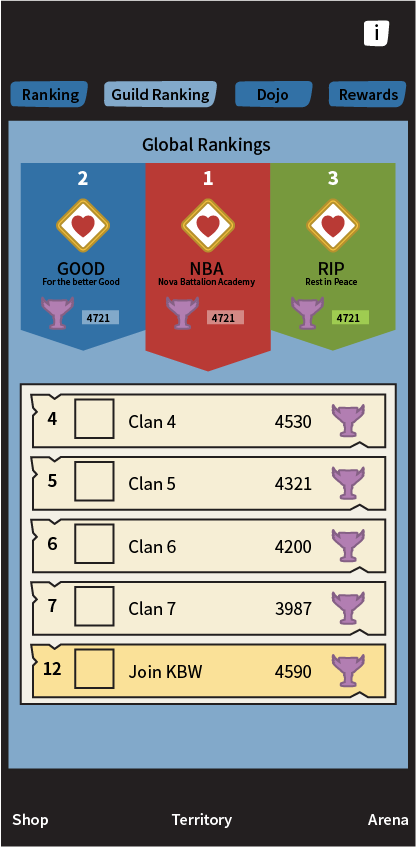
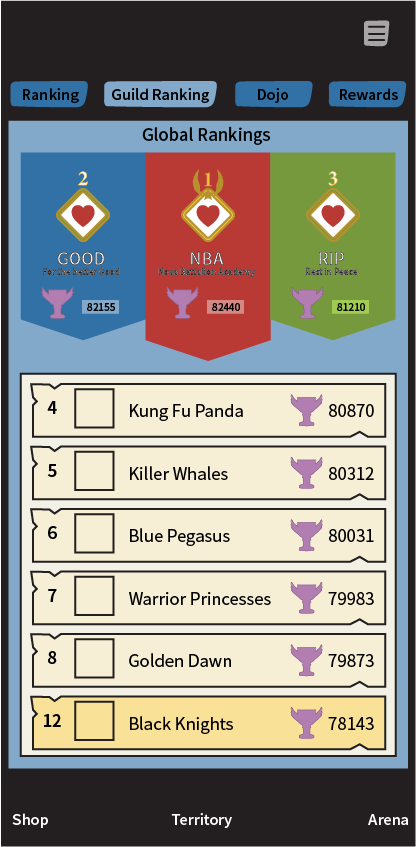
arena

Changed region(s): [[0.0312, 0.1535, 0.9688, 0.9209], [0.875, 0.0, 0.9375, 0.0614]]

diff --git a/structure/arena.md b/structure/arena.md
@@ -6,16 +6,21 @@
 ## Problem 
 
 * Players spend a lot of money on a few pixels.
+* The Guild interface is getting cluttered.
 * "Clan Battles" and "Training" are in different places
+* "Clan Battles" require too many taps.
 
 ## Suggested Solution
 
-* Give the whales more pixels (large banners)
-* Give the whale guilds more pixels (large banners)
+* Give top-ranking whales more pixels (large banners)
+* Give top-ranking whale schools more pixels (large banners)
+* Move guid ranking to Arena interface
 * Create a **Dojo** feature to consolidate Training and Clan Battles
+  - Split clan battle quotas for Arena (20/day) and Hero Trial (10/day)
+  - Do not display defense hero (should offer experience as close to real arena as possible)
 
 ### User Interface
 
 | Rankings | Guild Rankings | Dojo | Rewards    |
 | ------- | ------- | -------- |-------------- |
-|![Example](../images/ui-arena-ranks.png)|![Example](../images/ui-arena-guilds.png)| | |
+|![Example](../images/ui-arena-ranks.png)|![Example](../images/ui-arena-guilds.png)|![Example](../images/ui-arena-dojo.png)| |
